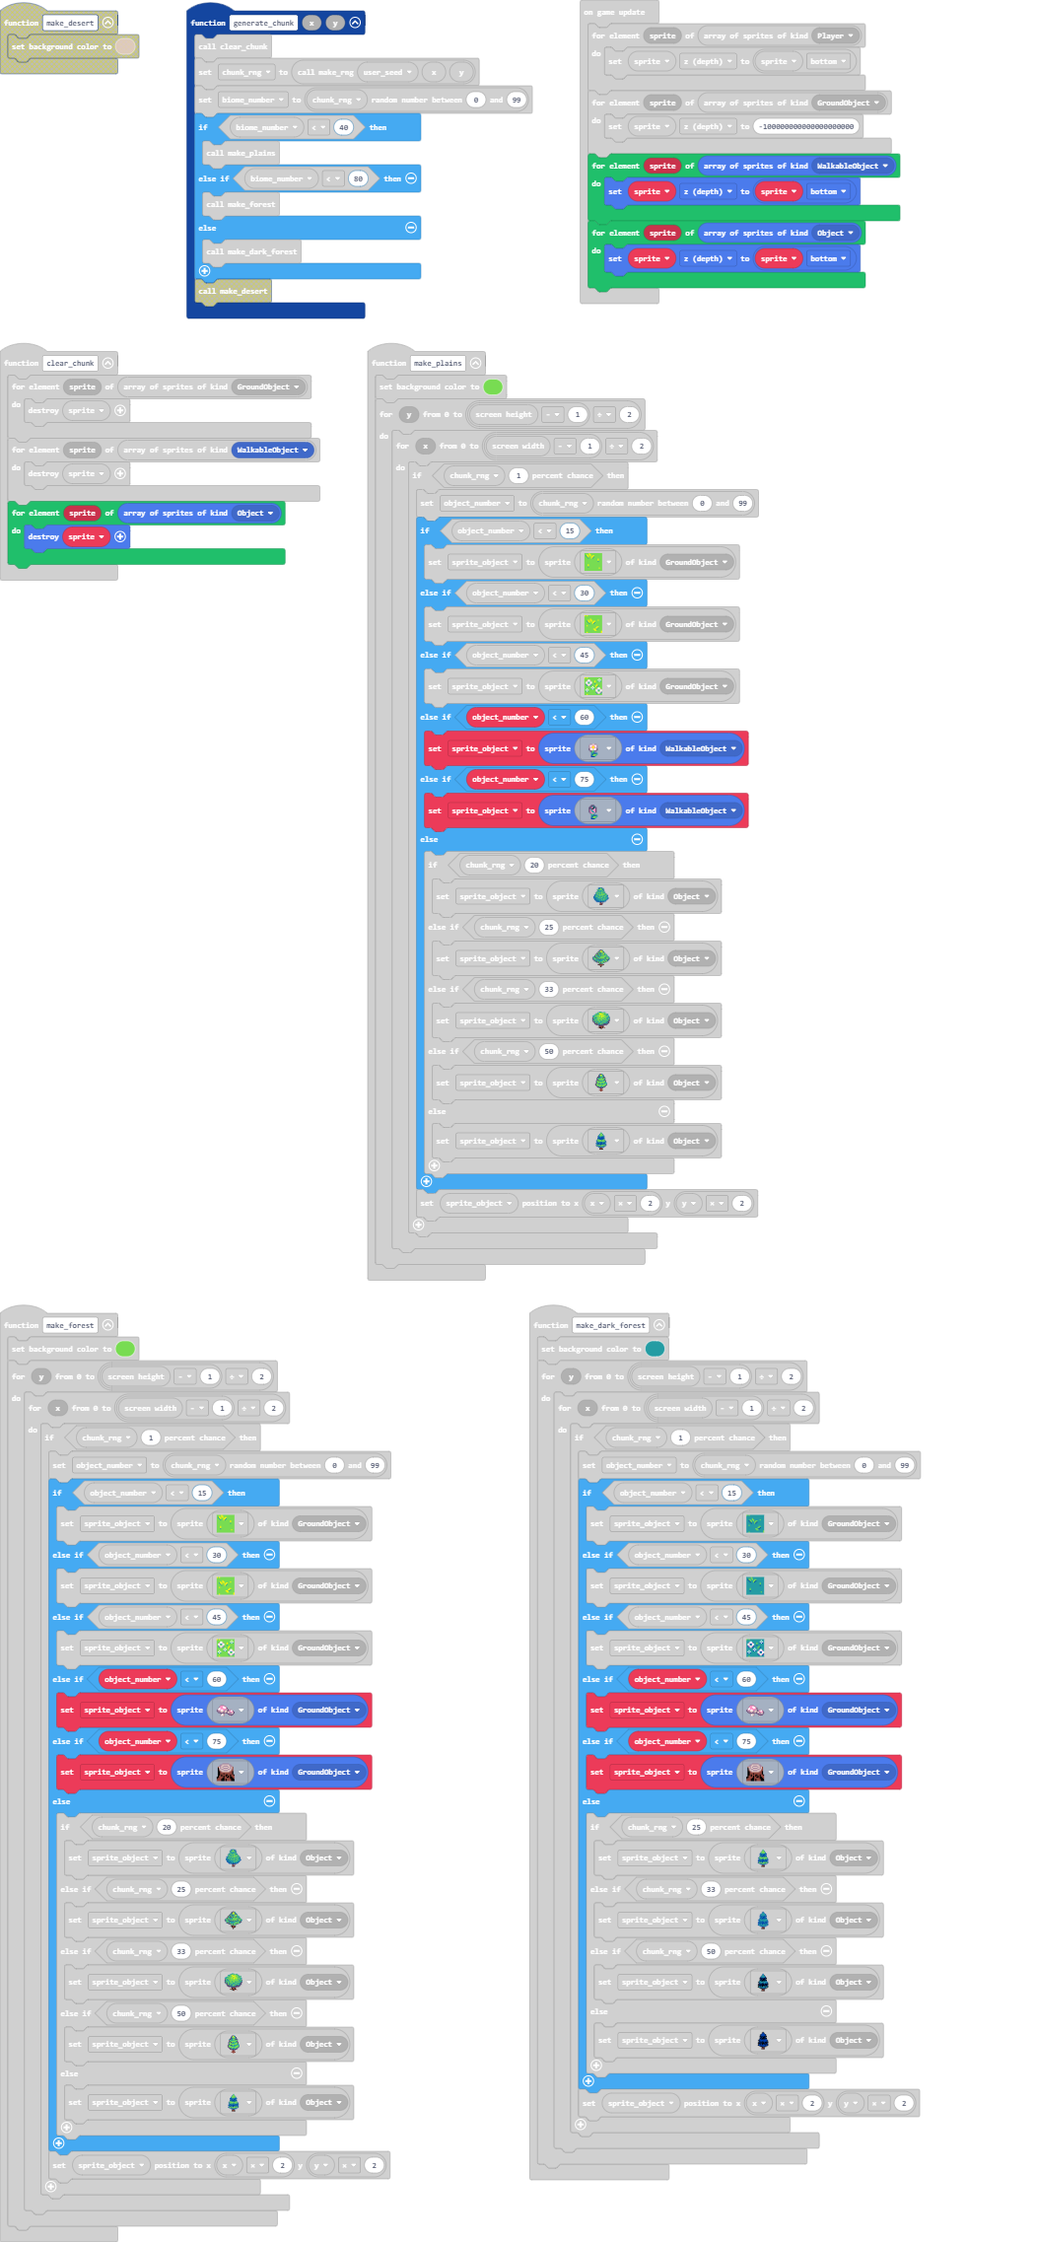
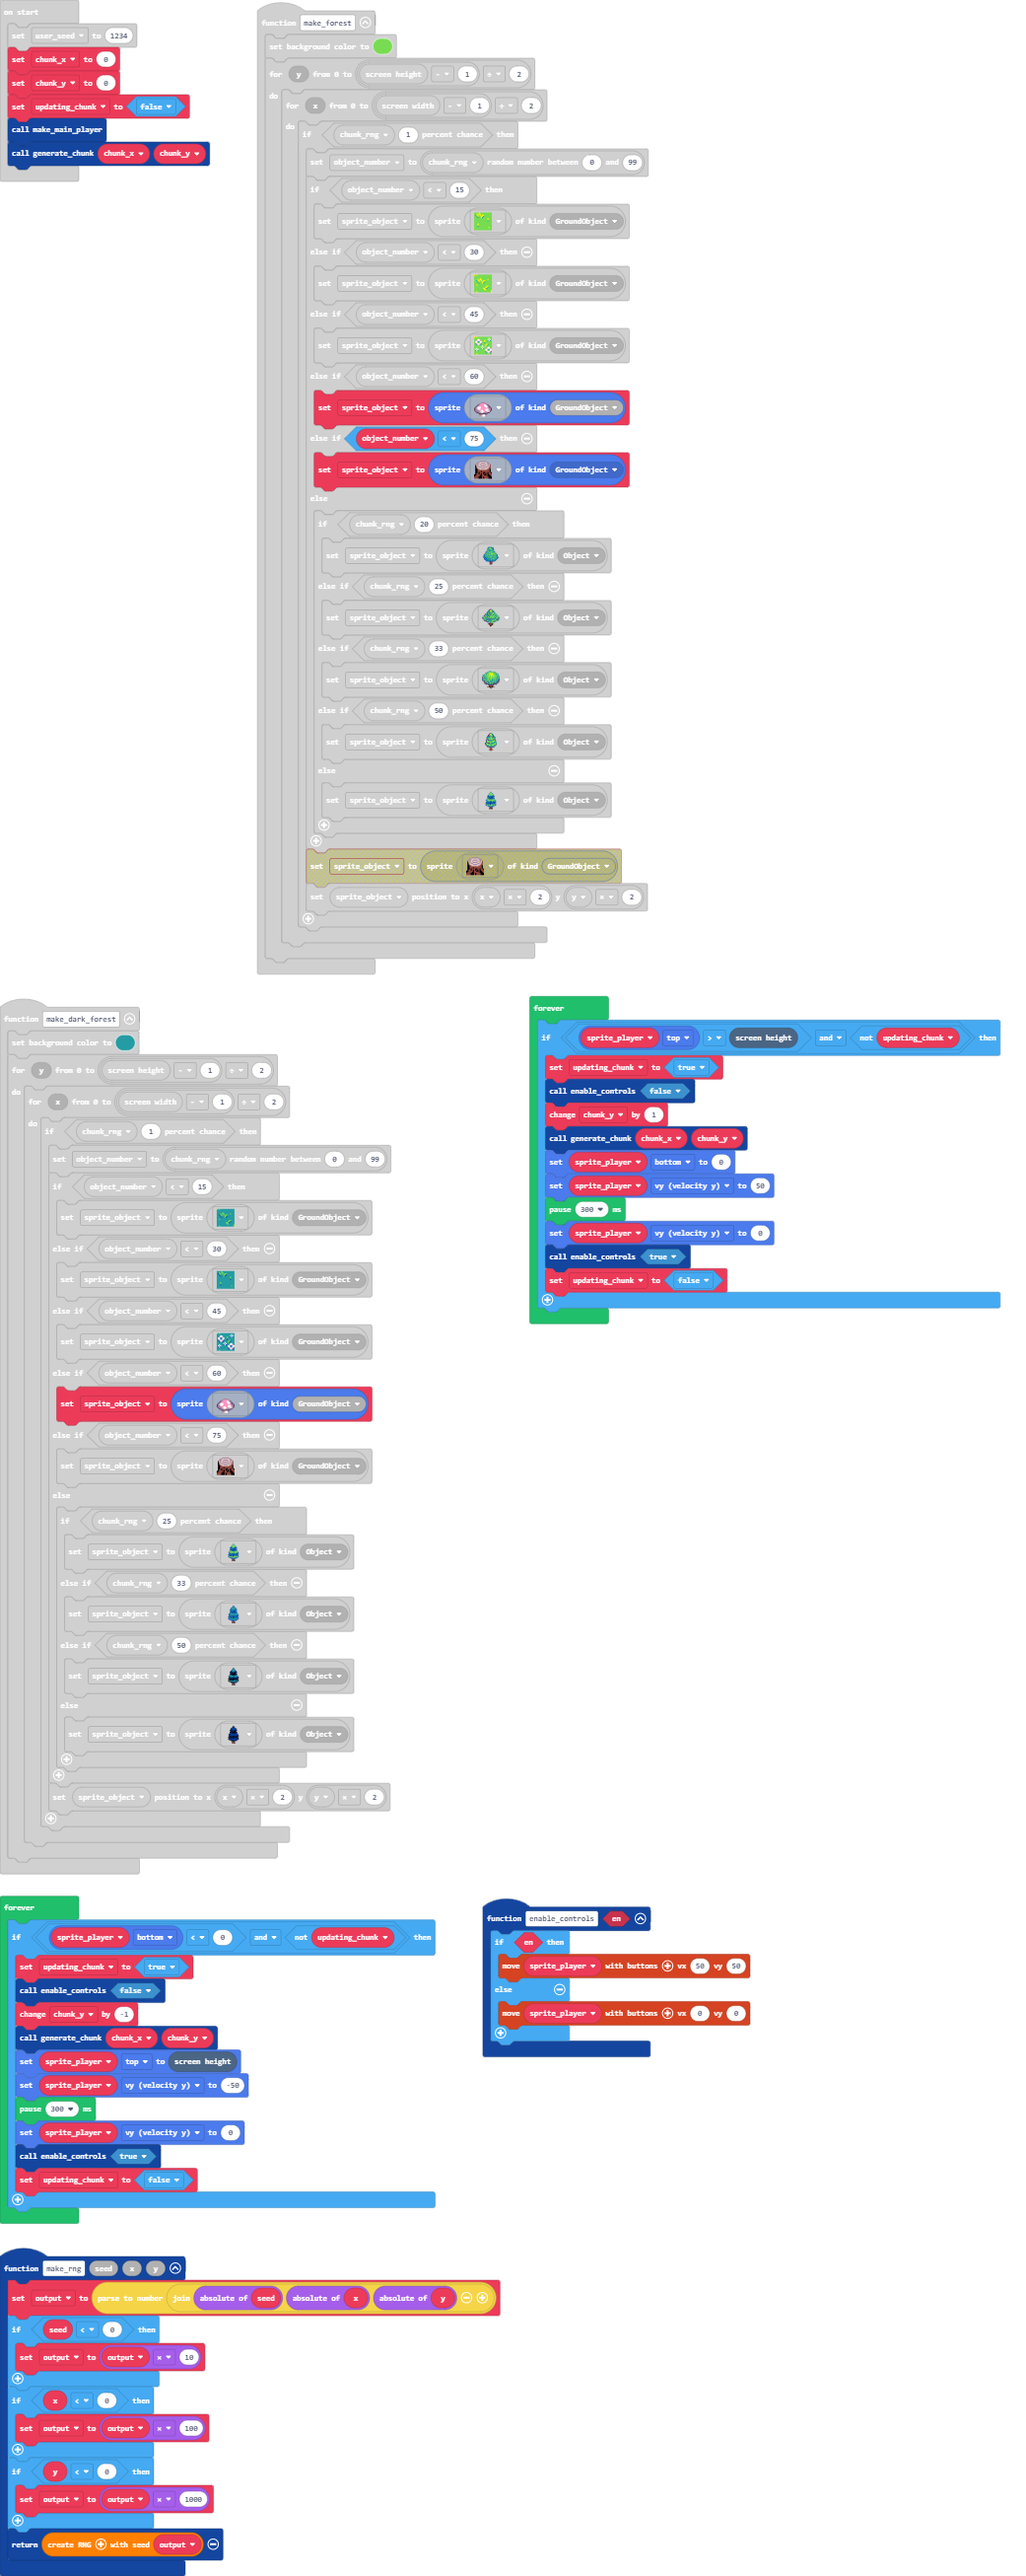
Can pass between chunks north and south

diff --git a/main.ts b/main.ts
@@ -4,7 +4,17 @@ namespace SpriteKind {
     export const WalkableObject = SpriteKind.create()
 }
 function make_rng (seed: number, x: number, y: number) {
-    return Random.createRNG(parseFloat("" + seed + x + y))
+    output = parseFloat("" + Math.abs(seed) + Math.abs(x) + Math.abs(y))
+    if (seed < 0) {
+        output = output * 10
+    }
+    if (x < 0) {
+        output = output * 100
+    }
+    if (y < 0) {
+        output = output * 1000
+    }
+    return Random.createRNG(output)
 }
 function generate_chunk (x: number, y: number) {
     clear_chunk()
@@ -349,7 +359,7 @@ function make_forest () {
                 } else if (object_number < 45) {
                     sprite_object = sprites.create(sprites.castle.tileGrass2, SpriteKind.GroundObject)
                 } else if (object_number < 60) {
-                    sprite_object = sprites.create(sprites.builtin.forestMushroomPatch, SpriteKind.GroundObject)
+                    sprite_object = sprites.create(sprites.builtin.forestScenery3, SpriteKind.GroundObject)
                 } else if (object_number < 75) {
                     sprite_object = sprites.create(sprites.builtin.forestScenery1, SpriteKind.GroundObject)
                 } else {
@@ -370,6 +380,13 @@ function make_forest () {
         }
     }
 }
+function enable_controls (en: boolean) {
+    if (en) {
+        controller.moveSprite(sprite_player, 50, 50)
+    } else {
+        controller.moveSprite(sprite_player, 0, 0)
+    }
+}
 function make_dark_forest () {
     scene.setBackgroundColor(6)
     for (let y = 0; y <= (scene.screenHeight() - 1) / 2; y++) {
@@ -383,7 +400,7 @@ function make_dark_forest () {
                 } else if (object_number < 45) {
                     sprite_object = sprites.create(sprites.castle.tileDarkGrass2, SpriteKind.GroundObject)
                 } else if (object_number < 60) {
-                    sprite_object = sprites.create(sprites.builtin.forestMushroomPatch, SpriteKind.GroundObject)
+                    sprite_object = sprites.create(sprites.builtin.forestScenery3, SpriteKind.GroundObject)
                 } else if (object_number < 75) {
                     sprite_object = sprites.create(sprites.builtin.forestScenery1, SpriteKind.GroundObject)
                 } else {
@@ -407,10 +424,14 @@ let object_number = 0
 let sprite_player: Sprite = null
 let biome_number = 0
 let chunk_rng: FastRandomBlocks = null
+let output = 0
 let user_seed = 0
 user_seed = 1234
+let chunk_x = 0
+let chunk_y = 0
+let updating_chunk = false
 make_main_player()
-generate_chunk(0, 0)
+generate_chunk(chunk_x, chunk_y)
 game.onUpdate(function () {
     for (let sprite of sprites.allOfKind(SpriteKind.Player)) {
         sprite.z = sprite.bottom
@@ -423,5 +444,33 @@ game.onUpdate(function () {
     }
     for (let sprite of sprites.allOfKind(SpriteKind.Object)) {
         sprite.z = sprite.bottom
+    }
+})
+forever(function () {
+    if (sprite_player.top > scene.screenHeight() && !(updating_chunk)) {
+        updating_chunk = true
+        enable_controls(false)
+        chunk_y += 1
+        generate_chunk(chunk_x, chunk_y)
+        sprite_player.bottom = 0
+        sprite_player.vy = 50
+        pause(300)
+        sprite_player.vy = 0
+        enable_controls(true)
+        updating_chunk = false
+    }
+})
+forever(function () {
+    if (sprite_player.bottom < 0 && !(updating_chunk)) {
+        updating_chunk = true
+        enable_controls(false)
+        chunk_y += -1
+        generate_chunk(chunk_x, chunk_y)
+        sprite_player.top = scene.screenHeight()
+        sprite_player.vy = -50
+        pause(300)
+        sprite_player.vy = 0
+        enable_controls(true)
+        updating_chunk = false
     }
 })
